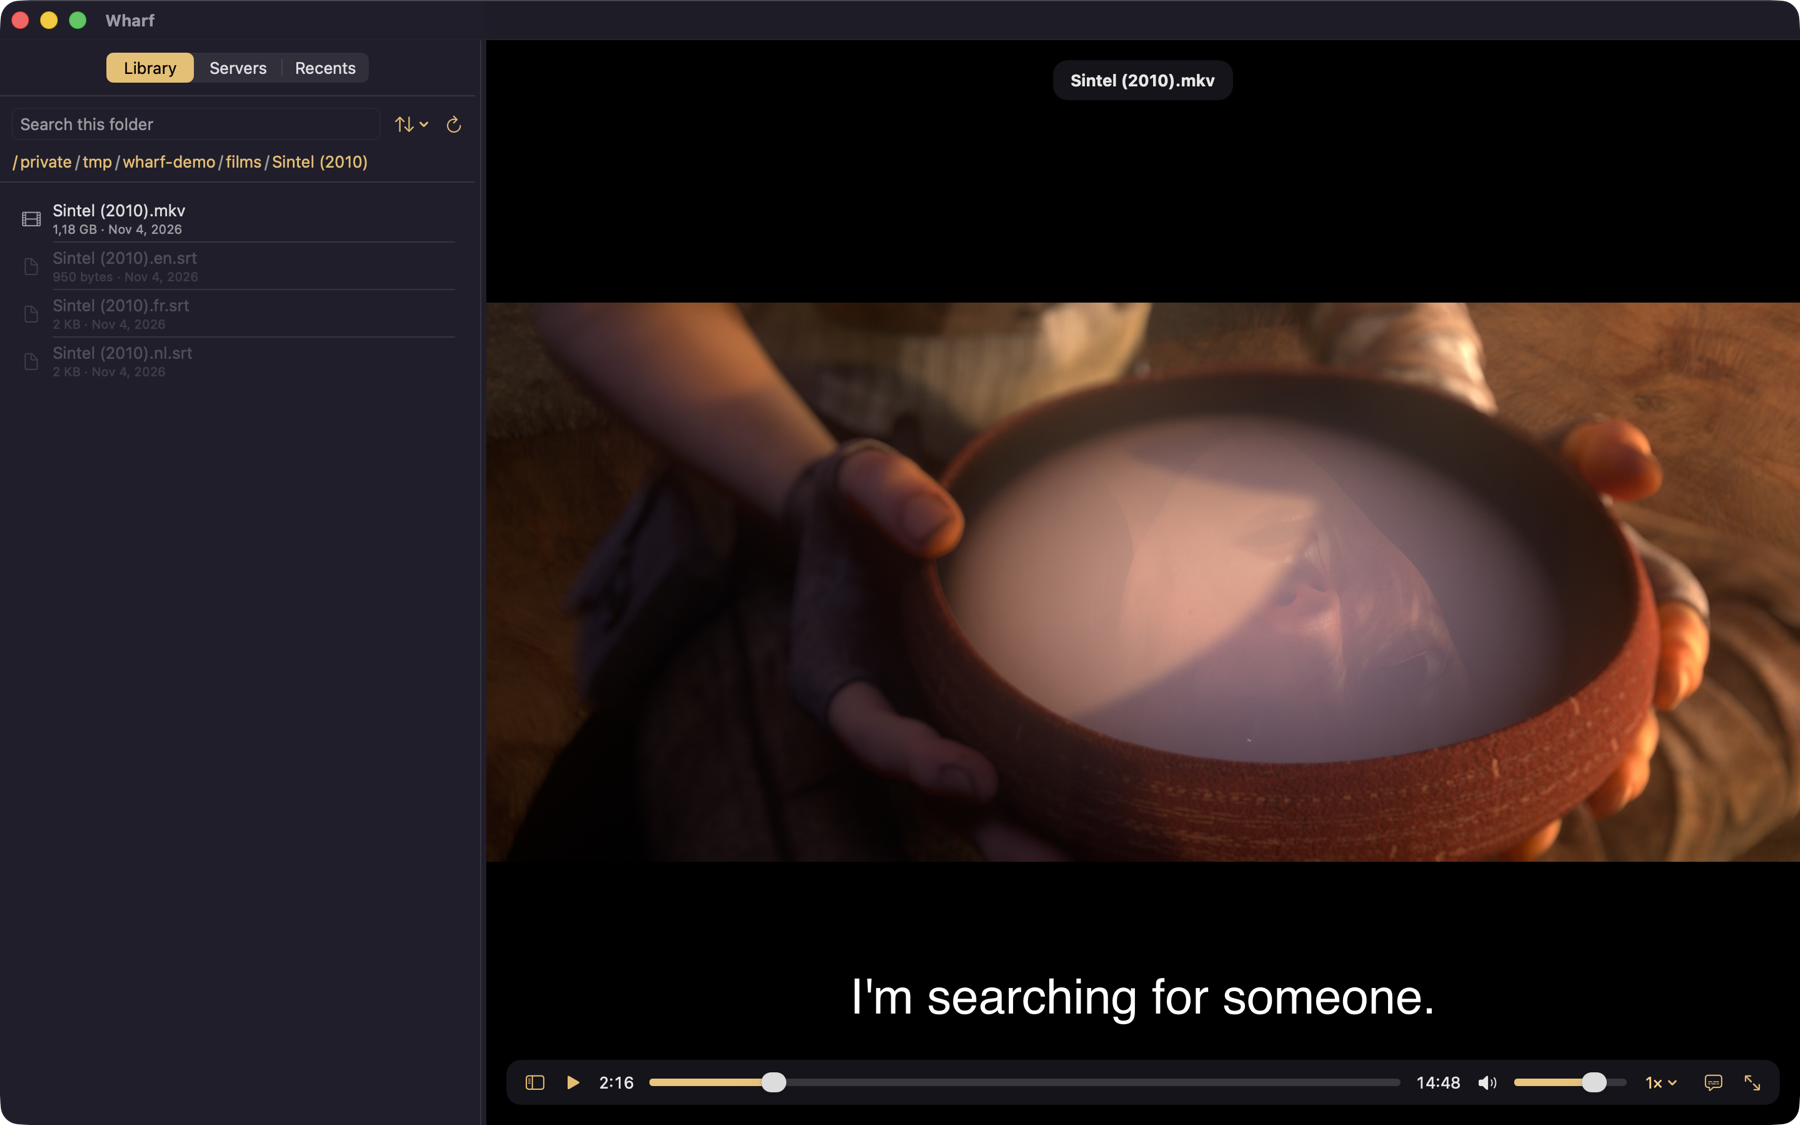
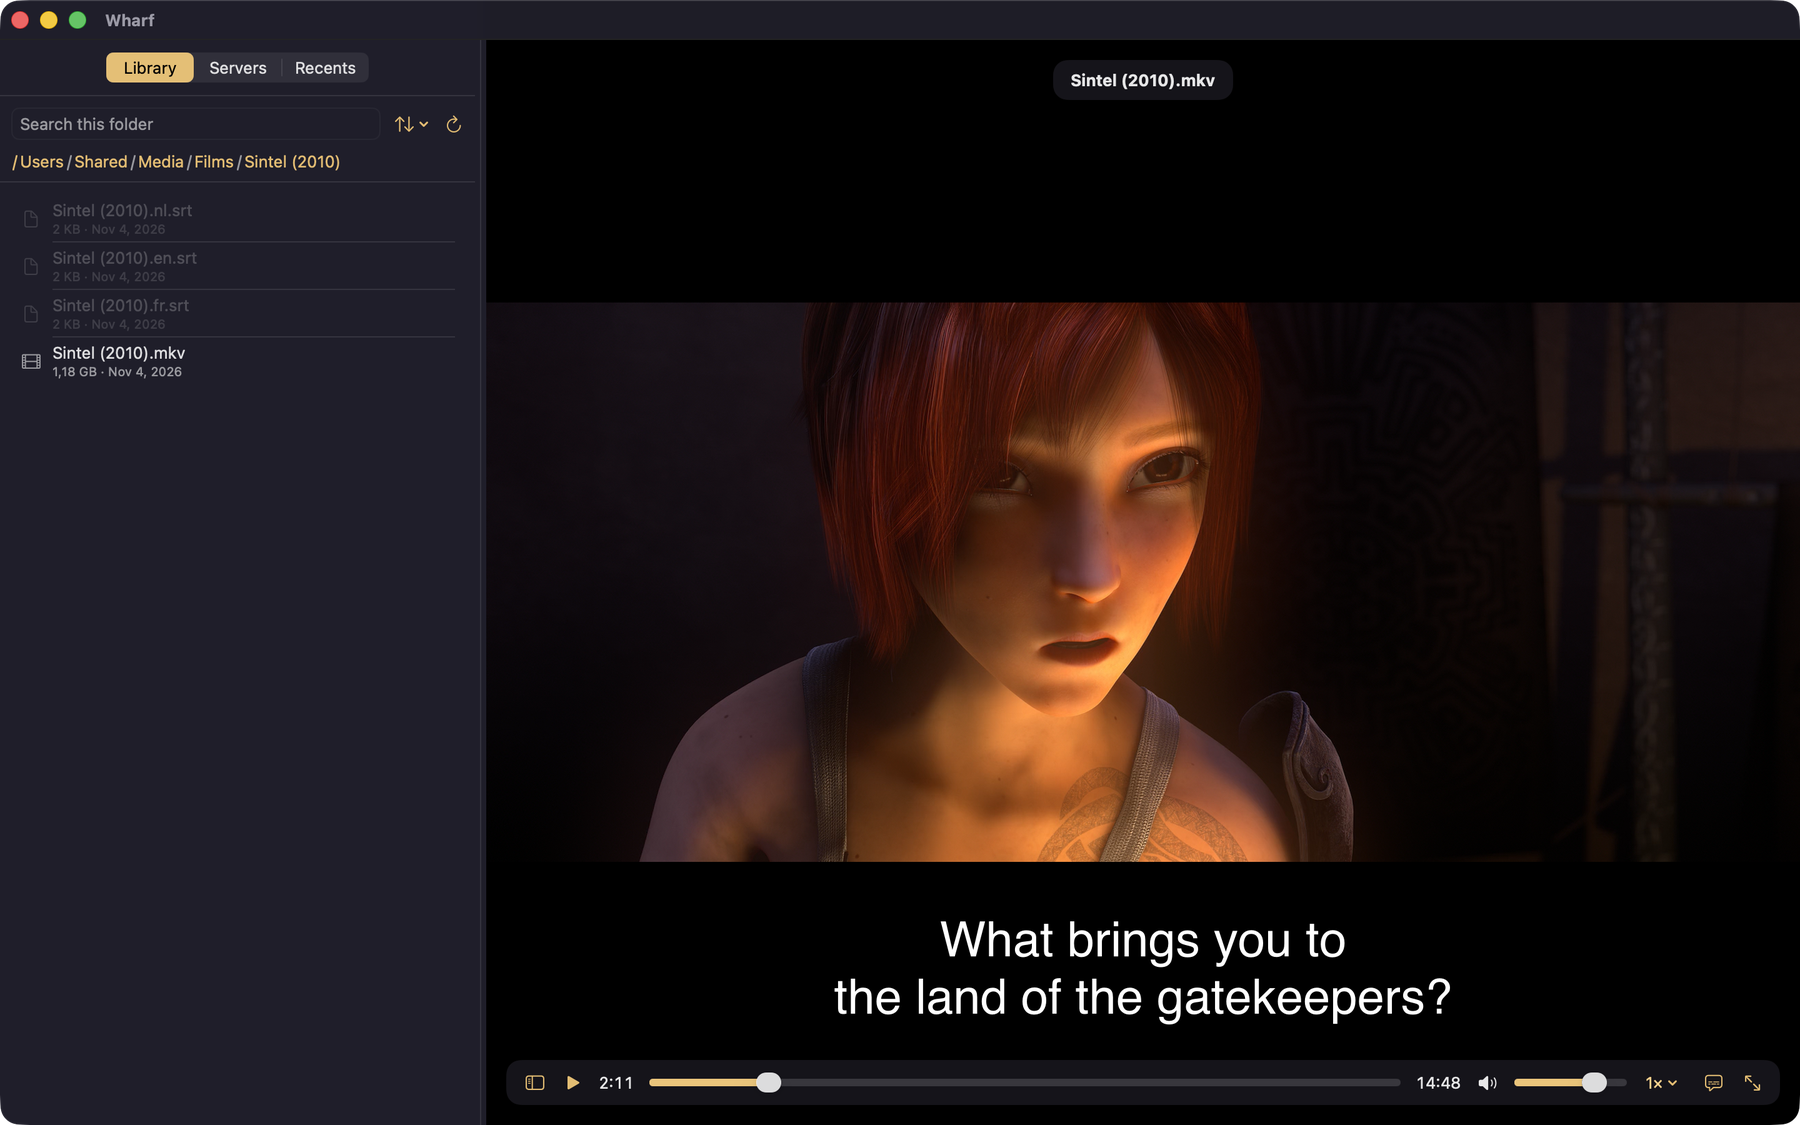
feat: show the real app window on the site
Adds an "All in one window" section with a real screenshot of Wharf
playing Sintel (Blender Foundation, CC BY 3.0) from an SFTP server,
not recoloured, credited under the image and in the footer.
Re-shoots the README screenshot with a clean library path, and ranks
real screenshots first in the site design skill.

diff --git a/site/index.html b/site/index.html
@@ -64,6 +64,17 @@
   </figure>
 </section>
 
+<section class="shot" aria-labelledby="shot-h">
+  <div class="shot__text">
+    <h2 id="shot-h" class="shot__head" data-reveal>All in one window</h2>
+    <p data-reveal style="--i:1">Servers, Library and Recents share the sidebar. The film plays beside it, with subtitles, audio tracks and speed in the control bar.</p>
+    <p class="credit" data-reveal style="--i:2">Wharf 1.0.0 playing Sintel (© Blender Foundation, CC BY 3.0) from an SFTP server.</p>
+  </div>
+  <figure class="shot__media" data-reveal style="--i:1">
+    <img src="assets/wharf-window-1800.jpg" srcset="assets/wharf-window-1200.jpg 1200w, assets/wharf-window-1800.jpg 1800w" sizes="(max-width: 60rem) 100vw, 72vw" width="1800" height="1125" alt="The Wharf window: the Library sidebar lists Sintel and three subtitle files in /Users/Shared/Media/Films on the server, and the film plays beside it, paused on the English subtitle “What brings you to the land of the gatekeepers?”" loading="lazy" decoding="async">
+  </figure>
+</section>
+
 <section class="plate" aria-labelledby="plate-h">
   <div class="plate__media" data-reveal>
     <div class="player" data-ui data-state="paused">
@@ -350,7 +361,7 @@
     </div>
   </div>
   <div class="foot__credits">
-    <p>Pictures, all recoloured in the two colours of the Wharf icon: <a href="https://commons.wikimedia.org/wiki/File:Hamburg_(Timelapse-Test).webm">Hamburg (Timelapse-Test)</a> by Christian Andersen, CC BY 3.0. <a href="https://commons.wikimedia.org/w/index.php?curid=52620060">Warehouse, Water and Dock Streets, Brooklyn</a> by Berenice Abbott, New York Public Library, public domain. <a href="https://commons.wikimedia.org/w/index.php?curid=105177535">Evening on Hong Kong harbour</a> by Bernard Spragg, CC0. <a href="https://commons.wikimedia.org/w/index.php?curid=149126375">Tug towing a sailing ship at a harbour pier</a>, Rijksmuseum, CC0. <a href="https://commons.wikimedia.org/w/index.php?curid=150055717">The Entrepot dock, Amsterdam</a>, Rijksmuseum, CC0. Sample file names in the player are illustrations.</p>
+    <p>Pictures, all recoloured in the two colours of the Wharf icon: <a href="https://commons.wikimedia.org/wiki/File:Hamburg_(Timelapse-Test).webm">Hamburg (Timelapse-Test)</a> by Christian Andersen, CC BY 3.0. <a href="https://commons.wikimedia.org/w/index.php?curid=52620060">Warehouse, Water and Dock Streets, Brooklyn</a> by Berenice Abbott, New York Public Library, public domain. <a href="https://commons.wikimedia.org/w/index.php?curid=105177535">Evening on Hong Kong harbour</a> by Bernard Spragg, CC0. <a href="https://commons.wikimedia.org/w/index.php?curid=149126375">Tug towing a sailing ship at a harbour pier</a>, Rijksmuseum, CC0. <a href="https://commons.wikimedia.org/w/index.php?curid=150055717">The Entrepot dock, Amsterdam</a>, Rijksmuseum, CC0. The app screenshot is not recoloured and shows <a href="https://durian.blender.org">Sintel</a> © Blender Foundation, CC BY 3.0. Sample file names in the drawn player are illustrations.</p>
   </div>
   <div class="foot__legal">
     <p>Wharf is free software by bimurto, 2026.</p>

diff --git a/site/site.css b/site/site.css
@@ -89,6 +89,19 @@ code, pre { font-family: ui-monospace, "SF Mono", Menlo, monospace; font-size: 0
   .intro__video { aspect-ratio: 4 / 5; }
 }
 
+/* ───────── Shot: the real window, never recoloured ───────── */
+.shot { display: grid; grid-template-columns: repeat(12, minmax(0, 1fr)); column-gap: var(--gap-columns); align-items: end; padding-inline: var(--edge); margin-top: var(--section-gap); }
+.shot__text { grid-column: 1 / span 3; display: grid; gap: var(--space-md); padding-bottom: var(--space-sm); }
+.shot__head { font-size: var(--step-head); line-height: 1.05; letter-spacing: -0.02em; }
+.shot__text p:not(.credit) { color: var(--color-ink-2); }
+.shot__media { grid-column: 4 / span 9; margin: 0; }
+.shot__media img { width: 100%; }
+@media (max-width: 60rem) {
+  .shot { grid-template-columns: minmax(0, 1fr); row-gap: var(--space-lg); }
+  .shot__text, .shot__media { grid-column: 1; }
+  .shot__media { order: -1; margin-inline: calc(-1 * var(--edge)); }
+}
+
 /* ───────── Plate: the live player ───────── */
 .plate { display: grid; grid-template-columns: minmax(0, 1fr) minmax(0, 1fr); min-height: 88svh; background: var(--color-paper-2); margin-top: var(--section-gap); }
 .plate__media { display: grid; place-items: center; padding: var(--space-xl); }

diff --git a/.claude/skills/wharf-site-design/SKILL.md b/.claude/skills/wharf-site-design/SKILL.md
@@ -68,7 +68,7 @@ Rules that come from Panchang's width:
 
 - Margins are tight: `--gutter` is 28px (20px on phones), so big type reaches the edges.
 - Sections are separated by space (`--section-gap*`, 120–176px) or by a change of field colour (`--color-paper-2`, or the light closing field). Never by a line, a border or a shadow.
-- Neighbouring sections never share a composition. The page today runs: monument hero → heading over a full-bleed footage panorama → a 50/50 plate with the live player → a narrow run-in column starting at 30vw → three one-size name columns → a photograph with a caption beside it → one statement sentence → a full-width one-size table → a wide heading with indented questions → the inverted close → the name-first footer. A new section takes a composition none of its neighbours use.
+- Neighbouring sections never share a composition. The page today runs: monument hero → heading over a full-bleed footage panorama → the real app window on columns 4–12 with its caption bottom-aligned in columns 1–3 → a 50/50 plate with the live player → a narrow run-in column starting at 30vw → three one-size name columns → a photograph with a caption beside it → one statement sentence → a full-width one-size table → a wide heading with indented questions → the inverted close → the name-first footer. A new section takes a composition none of its neighbours use.
 - Grids use `minmax(0, 1fr)` tracks so pictures never force overflow. `html` and `body` keep `overflow-x: clip`.
 - Phones get their own composition, not a squashed desktop. The hero word turns vertical and runs down the right edge.
 
@@ -89,11 +89,12 @@ Copy these instead of inventing new ones. Markup and notes for each are in `refe
 ## Pictures
 
 What the site shows, in order of preference:
-1. **The app itself**, built as a `[data-ui]` fragment with its real labels, numbers that add up, and one item hovered or selected. Never a fake dashboard, never a device frame.
-2. **Real pictures of the harbour world**: archival or openly licensed photographs and footage of wharves, docks, warehouses, ferries, cranes. Use only CC0, public domain or CC BY. CC BY-SA forces share-alike on a recoloured version, so leave it out.
-3. Type and colour alone.
+1. **Real screenshots of the app** (`.shot`, `site/assets/wharf-window-*.jpg`). They prove the app exists and looks this way, which drawn pieces can't. Never recolour them, because the product must look as it does. Flatten the window's transparent corners onto `--color-paper`, export 1800 and 1200 px JPEGs (quality about 86) with `srcset`, and credit any film shown in them. Take them with a demo server, never your own: keep real host names and personal folders out of the frame (the current shot uses `/Users/Shared/Media/Films`), and use an openly licensed film such as Blender's Sintel (CC BY 3.0).
+2. **The app drawn in HTML**, as a `[data-ui]` fragment with its real labels, numbers that add up, and one item hovered or selected. Use it where the page needs something a screenshot can't do: the interactive player, or a small panel at any size. Never a fake dashboard, never a device frame.
+3. **Real pictures of the harbour world**: archival or openly licensed photographs and footage of wharves, docks, warehouses, ferries, cranes. Use only CC0, public domain or CC BY. CC BY-SA forces share-alike on a recoloured version, so leave it out.
+4. Type and colour alone.
 
-Every picture is recoloured to the icon's two colours (`#14120D` to `#EBBB66`) so archival scans and modern footage read as one set. Run `scripts/duotone.py` for stills. Run the ffmpeg command in `references/components.md` for footage, which also trims it. Save into `site/assets/` with a `t-` prefix, then:
+Every picture except the app screenshots is recoloured to the icon's two colours (`#14120D` to `#EBBB66`) so archival scans and modern footage read as one set. Run `scripts/duotone.py` for stills. Run the ffmpeg command in `references/components.md` for footage, which also trims it. Save into `site/assets/` with a `t-` prefix, then:
 - add a credit naming the title, creator, licence and "recoloured" in the footer `.foot__credits` paragraph, and under the picture if it is large;
 - add its entry to `site/assets/credits.json`;
 - give it real `width`, `height` and an `alt` that says what the picture shows and that it is toned gold;
